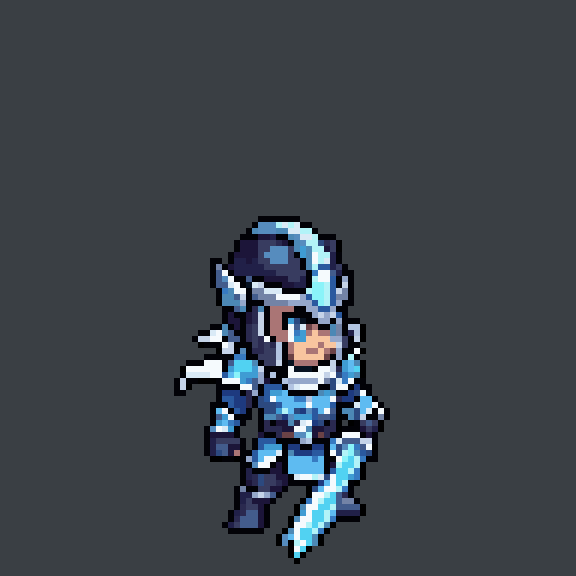
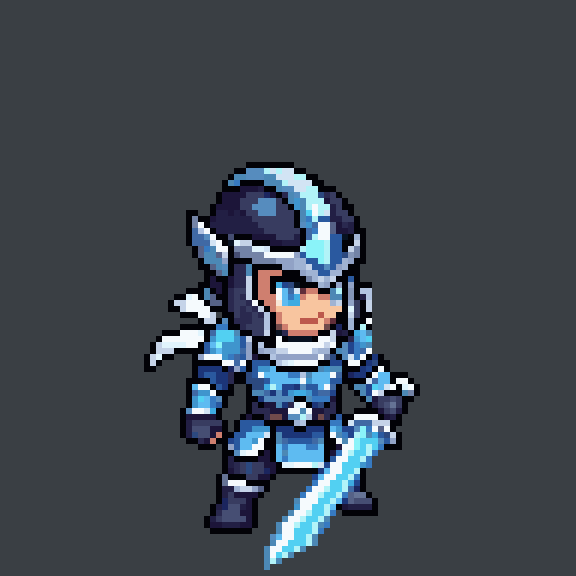
AERIN: SE master v4 sạch – bỏ ép/co/đổi màu (làm vỡ nét), chỉ chép nguyên pixel PixelLab + dời đuôi khăn + vẽ tay mũi kiếm
Claude-Session: https://claude.ai/code/session_01W9tcvqtq7TKxDYHKwgQMJZ

Changed region(s): [[0.25, 0.2812, 0.75, 1.0]]

diff --git a/tieng-vong-cuoi-cung/art/aerin/sua-se-sach.py b/tieng-vong-cuoi-cung/art/aerin/sua-se-sach.py
@@ -1,0 +1,36 @@
+# AERIN SE master v4 "sạch": KHÔNG co giãn/ép/đổi màu (các bước đó làm vỡ nét). Chỉ chép nguyên pixel PixelLab:
+#  - đuôi khăn: cắt khối pixel nguyên vẹn, lật ngang, đặt ra sau vai (không resample)
+#  - mũi kiếm: thêm 2 px đầu nhọn bằng đúng màu lưỡi có sẵn
+#  - đặt vào canvas 96x96, chân y=88
+import os,sys
+from PIL import Image
+D=os.path.dirname(os.path.abspath(__file__))+'/'
+src=Image.open(D+'helmet/pixellab_original_se_64.png').convert('RGBA')
+W=64
+scarf=Image.new('RGBA',(W,W))
+for y in range(17,32):
+    for x in range(46,W):
+        p=src.getpixel((x,y))
+        if p[3]: scarf.putpixel((x,y),p); src.putpixel((x,y),(0,0,0,0))
+sb=scarf.getbbox(); t=scarf.crop(sb).transpose(Image.FLIP_LEFT_RIGHT)
+px,py=17-t.width+3,21
+for y in range(t.height):
+    for x in range(t.width):
+        p=t.getpixel((x,y))
+        if p[3] and 0<=px+x<W and not src.getpixel((px+x,py+y))[3]: src.putpixel((px+x,py+y),p)
+FEET=61; OX=16; OY=88-FEET
+m=Image.new('RGBA',(96,96)); m.alpha_composite(src,(OX,OY))
+# mũi kiếm vẽ tay (ảnh gốc bị cắt ở hàng y=63 của khung 64): nối tiếp đường chéo lưỡi, dùng đúng màu lưỡi PixelLab
+E=(0x4c,0x88,0xb5,255); Wt=(0xf5,0xfa,0xfd,255); C=(0x52,0xd0,0xf2,255); L=(0xb2,0xf3,0xf8,255)
+for y in range(90,96):
+    for x in range(36,60): m.putpixel((x,y),(0,0,0,0))
+TIP={90:[(45,E),(46,Wt),(47,Wt),(48,C),(49,C),(50,C),(51,L),(52,E)],
+     91:[(44,E),(45,Wt),(46,Wt),(47,C),(48,C),(49,L),(50,E)],
+     92:[(44,E),(45,Wt),(46,C),(47,L),(48,E)],
+     93:[(44,E),(45,L),(46,E)],
+     94:[(44,E)]}
+for y,row in TIP.items():
+    for x,c in row: m.putpixel((x,y),c)
+m.save(D+'aerin_master_se.png')
+b=Image.new('RGBA',(96,96),(58,63,68,255)); b.alpha_composite(m); b.resize((576,576),Image.NEAREST).save(D+'aerin_master_se_x6.png')
+print(m.getbbox())

diff --git a/tieng-vong-cuoi-cung/art/aerin/lam-landmarks.py b/tieng-vong-cuoi-cung/art/aerin/lam-landmarks.py
@@ -15,7 +15,7 @@ tip=max(cy,key=lambda q:q[1])
 L={'canvas':[96,96],'ground_baseline_y':88,'bbox_all':list(bb),'height_px_body':88-bb[1],
  'landmarks':{k:t(*v) for k,v in src.items()},
  'sword':{'holding_hand':'anatomical LEFT = far hand (screen-right) when facing SE','hilt_pivot':t(44,44),'blade_tip':[tip[0],tip[1]+3],'blade_dir':'diagonal down, crossing in front of the near leg'},
- 'source':'PixelLab '+('0a16a8c4 (helmet state)' if OUT else '9ea1ed77')+' rotations/south-east.png -> sua-se.py (far half squashed x%.2f, scarf tail moved behind, nearest scale x%.3f, blade tip redrawn)'%(S,s),
+ 'source':'PixelLab '+'0a16a8c4 (helmet state)'+' rotations/south-east.png -> sua-se-sach.py (no resampling: scarf tail block moved behind, blade tip hand-drawn)',
  'accuracy':'+-1 px (hand-estimated on 8x grid, then transformed)'}
 json.dump(L,open(D+OUT+'aerin_landmarks_se.json','w'),indent=1)
 cols={}
